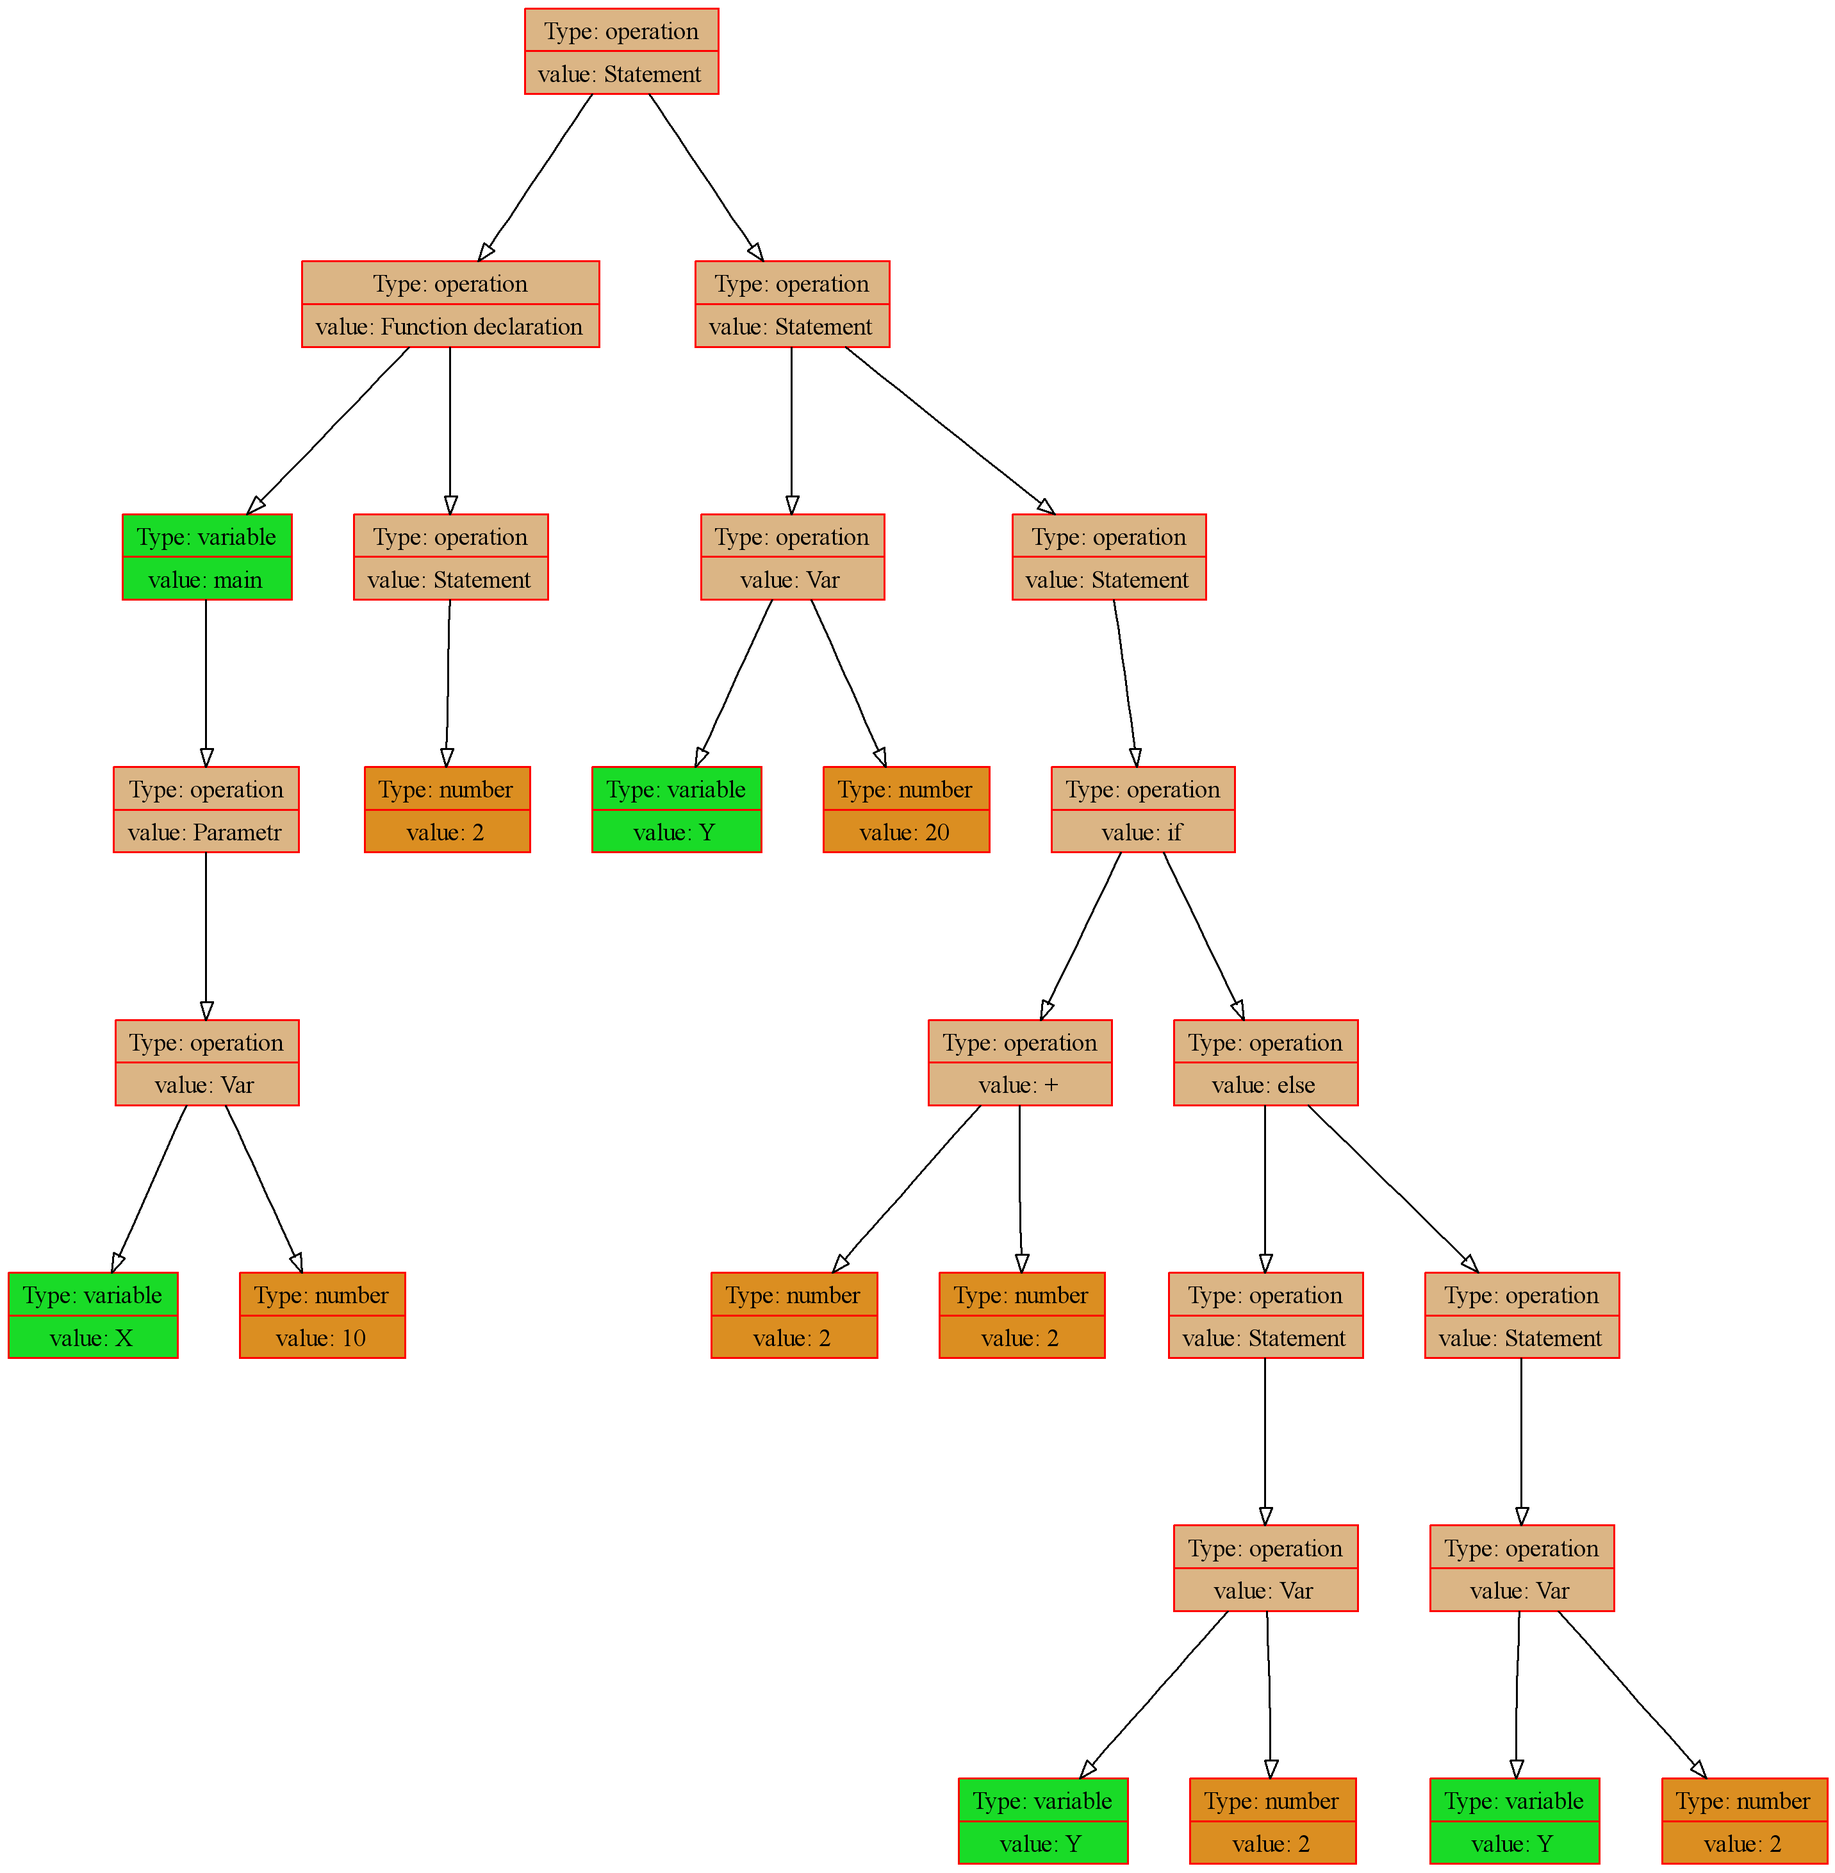
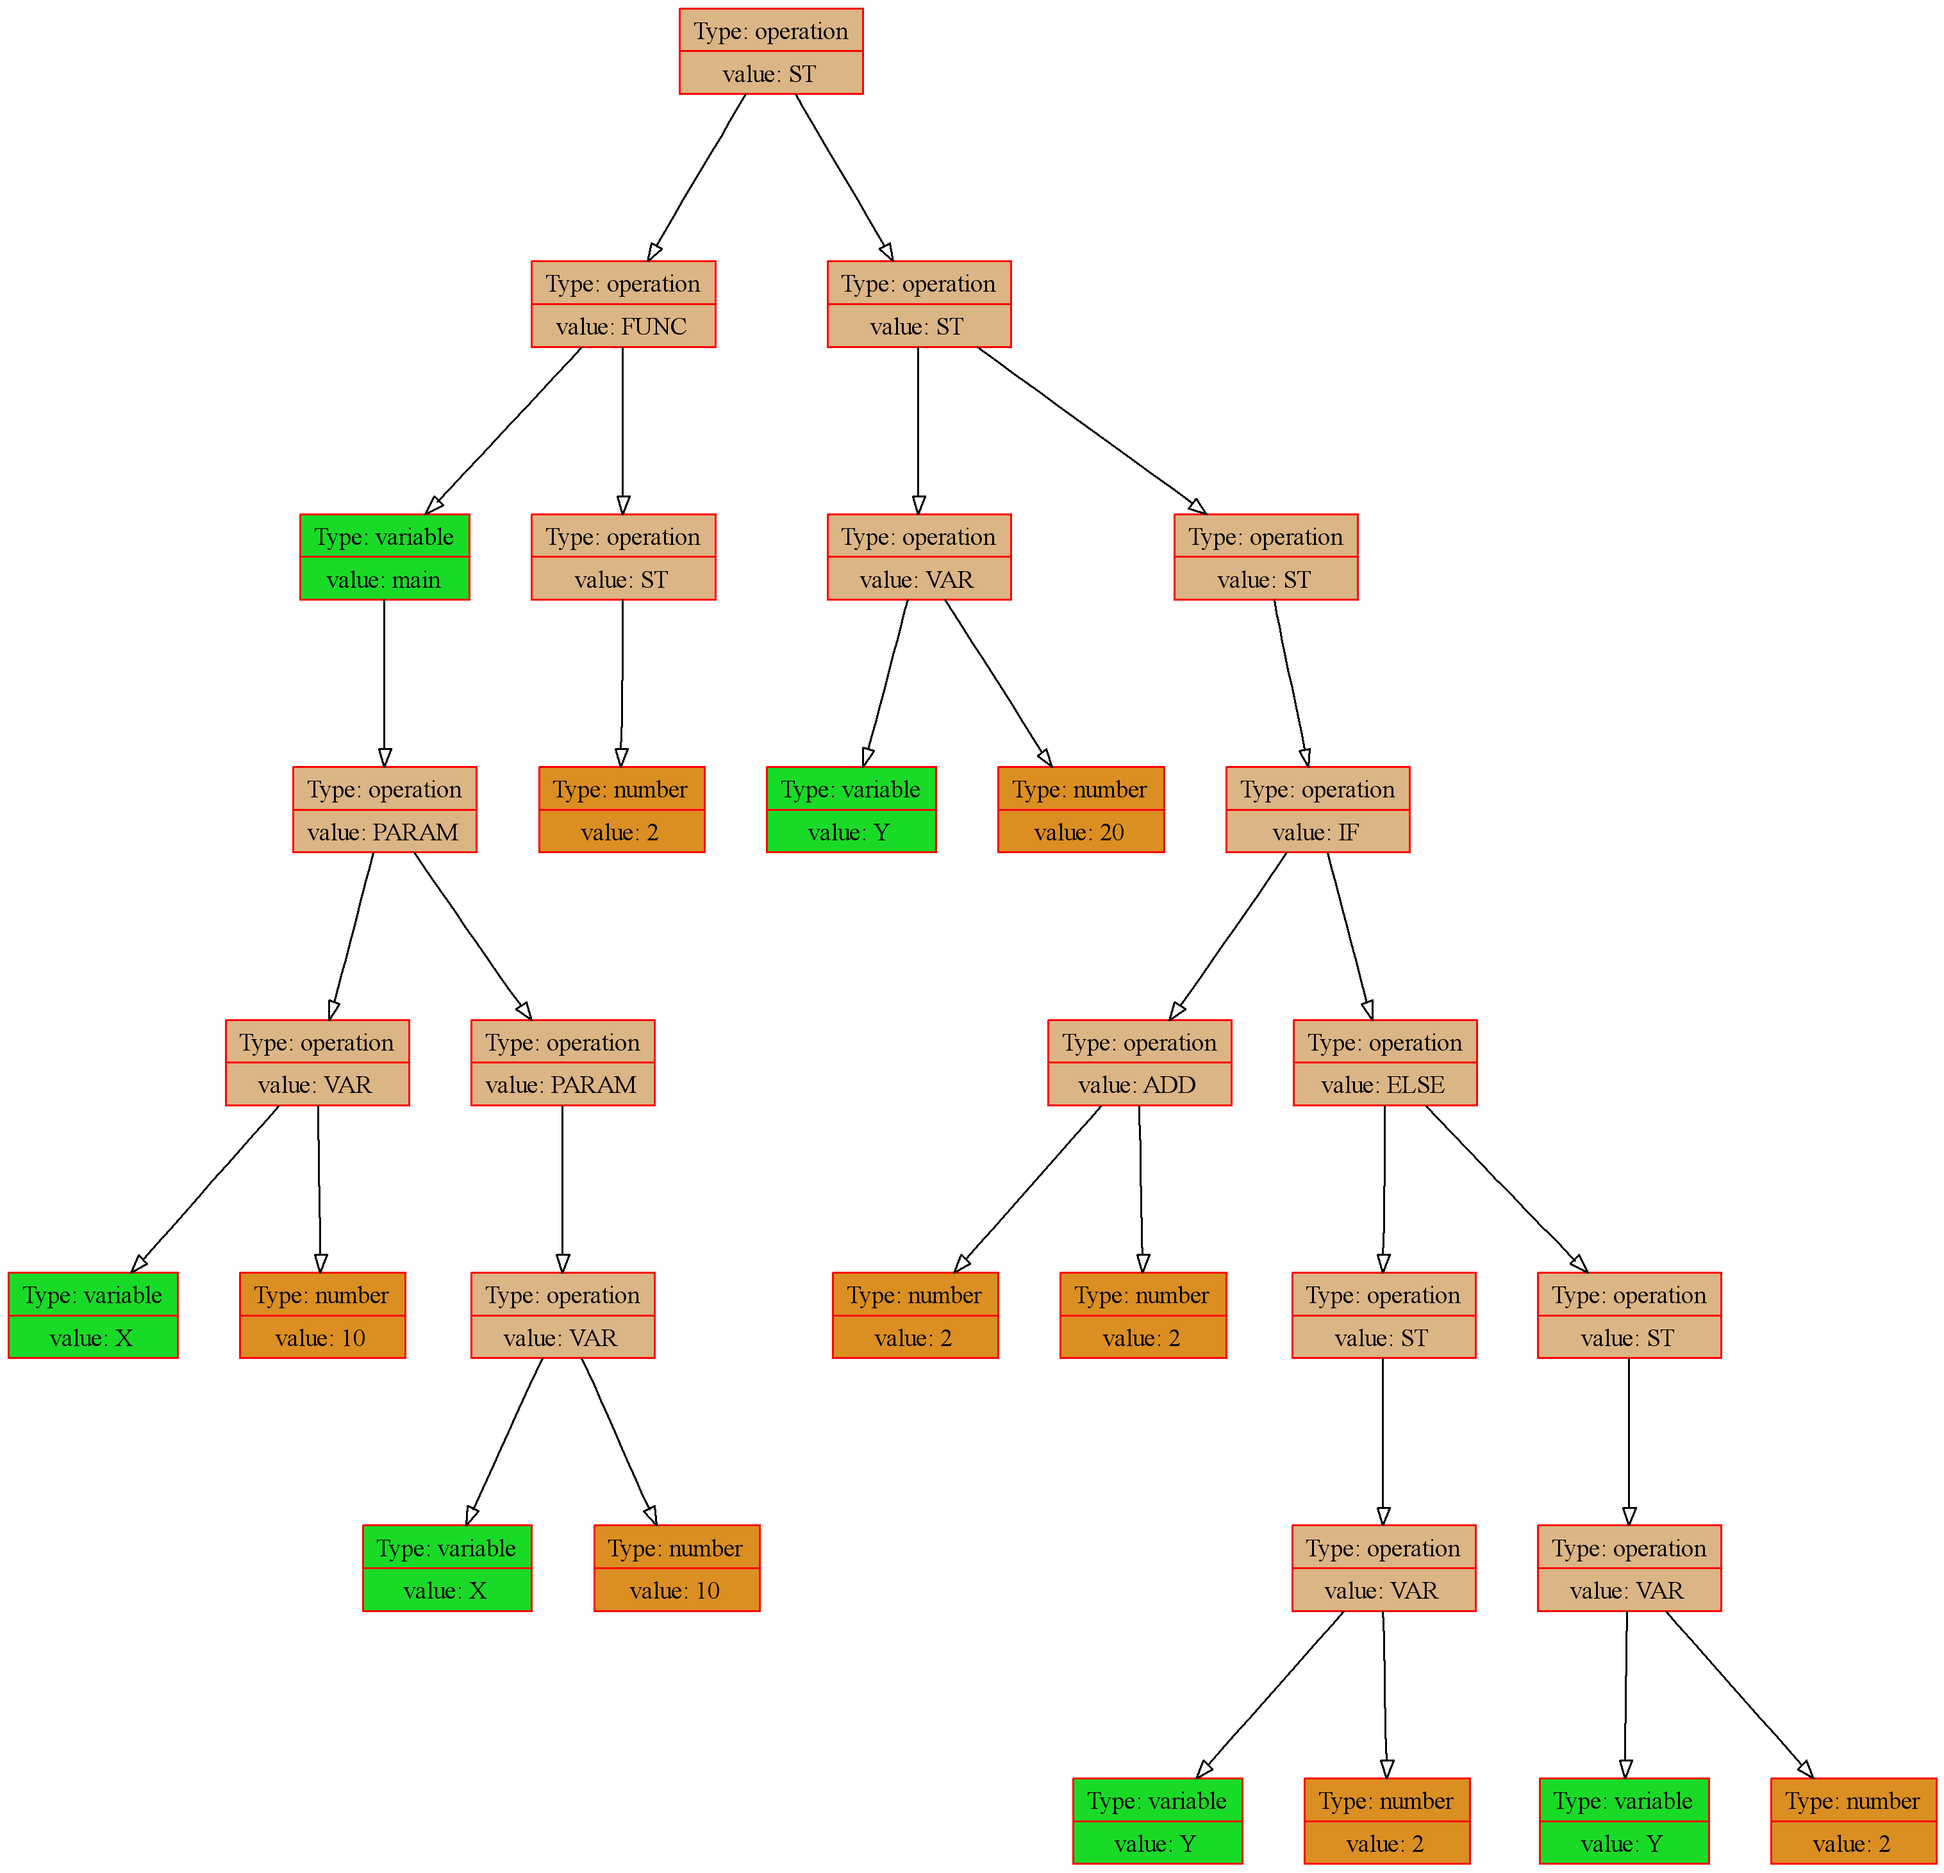
taught this prog to write on disk, still incomplete

diff --git a/frontend/src/parser.cpp b/frontend/src/parser.cpp
@@ -459,13 +459,13 @@ void SkipSpaces (char** string)
 
 #define SWITCH(op, return_statement)   \
     case op:                            \
-        return return_statement;        \
+        return #op;        \
 
 char* GetOpSign (Options op)
 {
     switch (op)
     {
-    SWITCH (ADD, "+")
+    SWITCH (ADD, "ADD")
     SWITCH (SUB, "-")
     SWITCH (DIV, "/")
     SWITCH (MUL, "*")
@@ -499,12 +499,60 @@ char* GetOpSign (Options op)
 
 
 //-------Parser->Lecsical analysis----------------------------------
-
-
 //--Parser.End-----------------------------------------------------
 
 
-//------Dump--------------------------------------------------------
+//--Write on disk. Begin-------------------------------------------
+
+#define PRINT(...) fprintf (out_file, __VA_ARGS__)
+
+void PrintTreeInFile (TreeNode* root)
+{
+    FILE* out_file = get_file ("data/tree.txt", "w+");
+
+    RecPrintNode (root, out_file);
+
+    fclose (out_file);
+    printf ("Closing out file successfully\n");
+}
+
+
+void RecPrintNode (TreeNode* cur_node, FILE* out_file)
+{
+    printf ("Printing node with op type: %d\n", cur_node->value.op_val);
+
+    PRINT (" { ");
+
+    if      (cur_node->type == NUM_T) PRINT ("%d", cur_node->value.dbl_val);
+    else if (cur_node->type == VAR_T)
+    {
+        PRINT ("\"%s\"", cur_node->value.var_name);
+        if (cur_node->left) RecPrintNode (cur_node->left, out_file);
+    }
+    else
+    {
+        PRINT (" %s ", GetOpSign (cur_node->value.op_val));   
+    
+        if (cur_node->left) RecPrintNode (cur_node->left, out_file);
+        else PRINT (" { NIL } ");
+
+        if (cur_node->right) RecPrintNode (cur_node->right, out_file);
+        else PRINT (" { NIL } ");
+    }
+
+
+    PRINT (" } ");
+}
+
+
+#undef PRINT
+
+
+//--Write on disk. End---------------------------------------------
+
+
+
+//------Dump. Begin--------------------------------------------------------
 
 #define __print(...) fprintf (dot_file, __VA_ARGS__)
 

diff --git a/frontend/include/parser.h b/frontend/include/parser.h
@@ -79,6 +79,9 @@ Token* CreateToken (Types type, double dbl_val, Options operation);
 
 void PrintTokens (Token token_array[]);
 
+void RecPrintNode (TreeNode* cur_node, FILE* out_file);
+
+void PrintTreeInFile (TreeNode* root);
 
 void SkipSpaces (char** string);
 

diff --git a/frontend/src/main.cpp b/frontend/src/main.cpp
@@ -9,4 +9,6 @@ int main()
     TreeNode* root = GetGrammar ();
 
     DrawTree (root);
+
+    PrintTreeInFile (root);
 }
